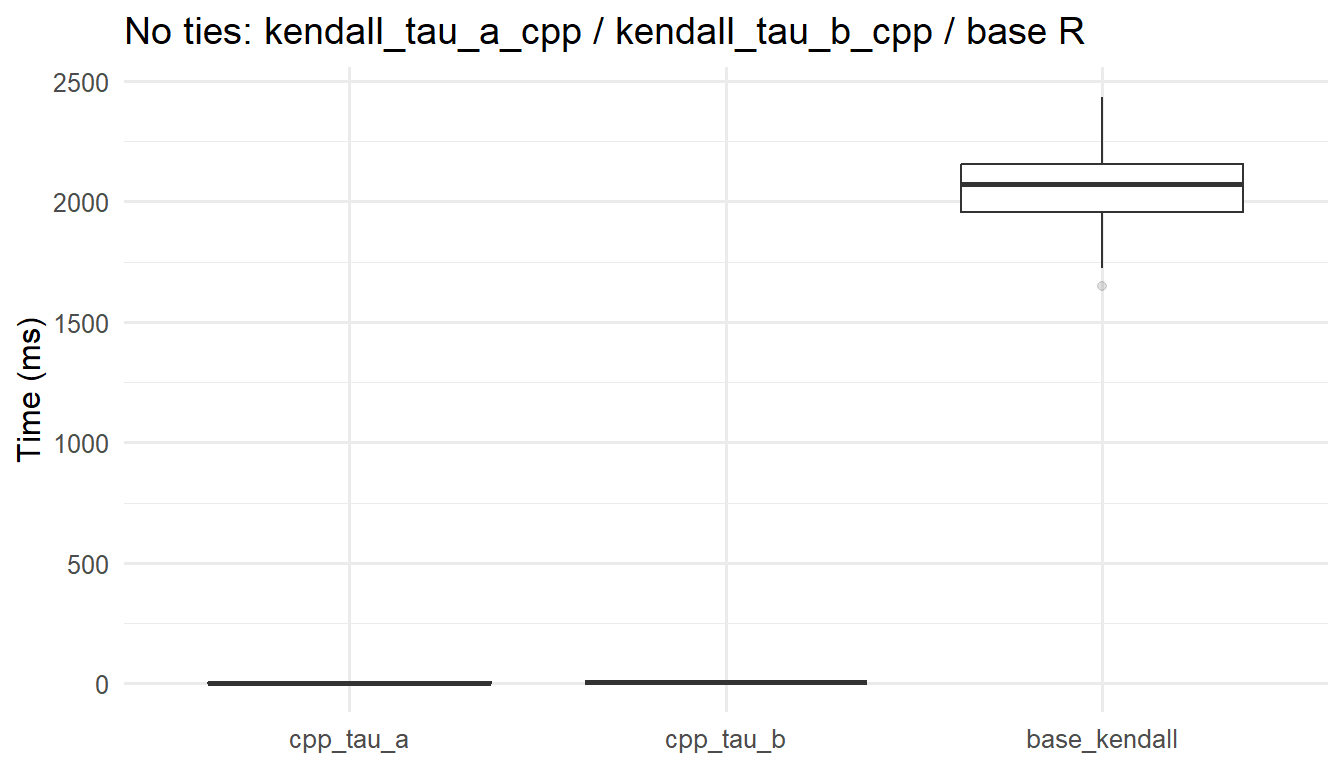
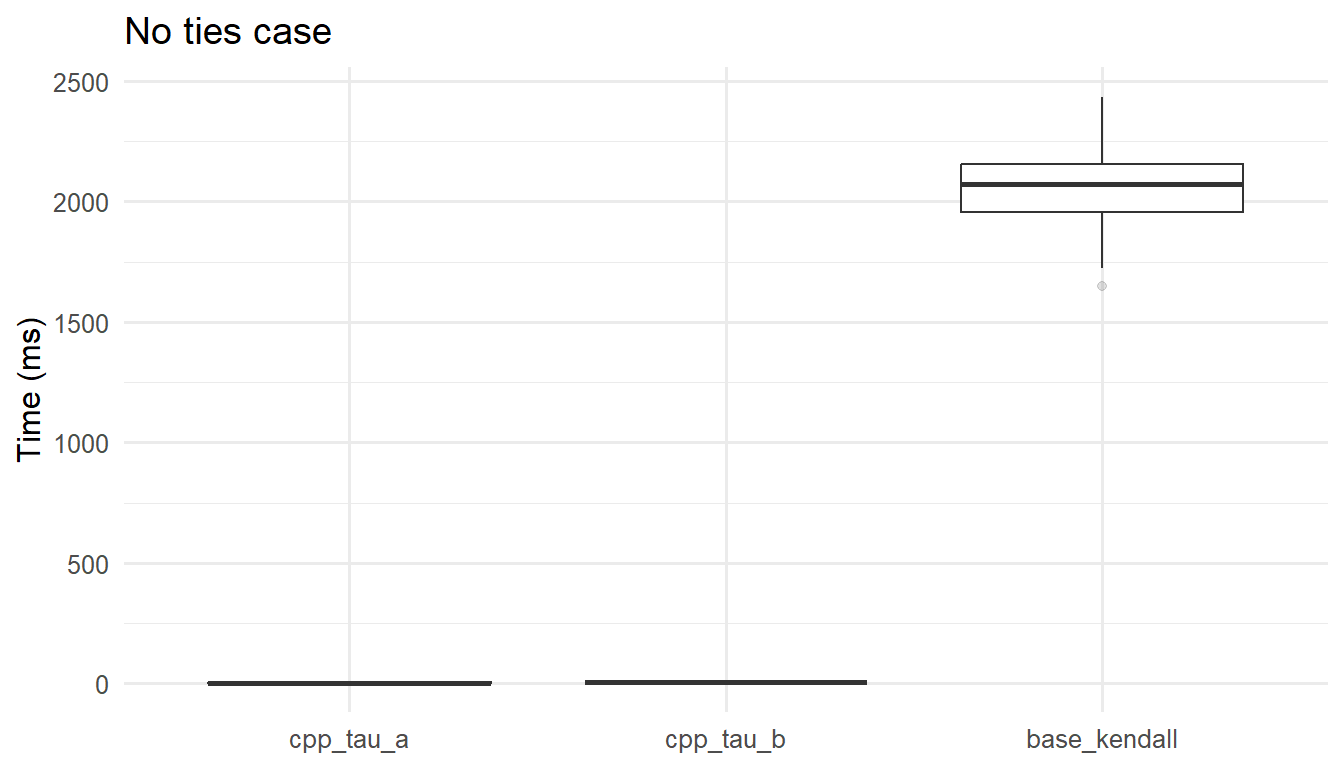
added tau-b and auto-cor for kendall

Changed region(s): [[0.1875, 0.0, 0.8125, 0.0625]]

diff --git a/content/post/2025-08-07-kendall-example-rcpp/index.html b/content/post/2025-08-07-kendall-example-rcpp/index.html
@@ -16,7 +16,7 @@ subtitle: "R vs Rcpp with a fast inversion-count implementation"
 summary: "Implement and benchmark a fast Kendall's tau-a in C++ via Rcpp against base R, discuss tie handling (tau-b), and when to move from R to C++."
 authors:
   - admin
-lastmod: "2025-08-09T10:16:06Z"
+lastmod: "2025-08-09T10:23:29Z"
 featured: false
 image:
   caption: ""
@@ -65,7 +65,7 @@ output:
 
 <div id="overview" class="section level1" number="1">
 <h1><span class="header-section-number">1</span> Overview</h1>
-<p>This post shows how to go from a quick <code>R</code> prototype to a compiled implementation with <code>Rcpp</code>, using <strong>Kendall’s rank correlation</strong> as a worked example. We implement fast, <span class="math inline">\(O(n\log n)\)</span> estimators for both <span class="math inline">\(\tau_a\)</span> (via a merge-sort inversion count) and <span class="math inline">\(\tau_b\)</span> (via a Binary Indexed Tree/Fenwick tree with explicit tie counts), then check their accuracy and speed against <code>stats::cor(..., method = "kendall")</code>.</p>
+<p>This post shows how to go from a quick <code>R</code> prototype to a compiled implementation with <code>Rcpp</code>, using <strong>Kendall’s rank correlation</strong> as a worked example. We implement fast, <span class="math inline">\(O(n\log n)\)</span>, estimators for both <span class="math inline">\(\tau_a\)</span> (via a merge-sort inversion count) and <span class="math inline">\(\tau_b\)</span> (via a Binary Indexed Tree/Fenwick tree with explicit tie counts), then check their accuracy and speed against <code>stats::cor(..., method = "kendall")</code>.</p>
 </div>
 <div id="setup" class="section level1" number="2">
 <h1><span class="header-section-number">2</span> Setup</h1>
@@ -544,7 +544,7 @@ knitr::kable(mb_noties_sum, digits = 2,
                 ggplot2::aes(x = expr, y = time/1e6)) +
   ggplot2::geom_boxplot(outlier.alpha = 0.15) +
   ggplot2::labs(x = NULL, y = &quot;Time (ms)&quot;,
-       title = &quot;No ties: kendall_tau_a_cpp / kendall_tau_b_cpp / base R&quot;) +
+       title = &quot;No ties case&quot;) +
   ggplot2::theme_minimal(base_size = 12)</code></pre>
 <p><img src="{{< blogdown/postref >}}index_files/figure-html/plot_bench_noties-1.png" width="672" /></p>
 </div>
@@ -610,7 +610,7 @@ knitr::kable(mb_ties_sum, digits = 2,
                 ggplot2::aes(x = expr, y = time/1e6)) +
   ggplot2::geom_boxplot(outlier.alpha = 0.15) +
   ggplot2::labs(x = NULL, y = &quot;Time (ms)&quot;,
-       title = &quot;Many ties: kendall_tau_a_cpp / kendall_tau_b_cpp / base R&quot;) +
+       title = &quot;Many ties case&quot;) +
   ggplot2::theme_minimal(base_size = 12)</code></pre>
 <p><img src="{{< blogdown/postref >}}index_files/figure-html/plot_bench_ties-1.png" width="672" />
 As you probably noted until here, in both scenarios <span class="math inline">\((n=10{,}000)\)</span>, the <code>C++</code> implementations are orders of magnitude faster than base R. Specifically in the last scenario:</p>
